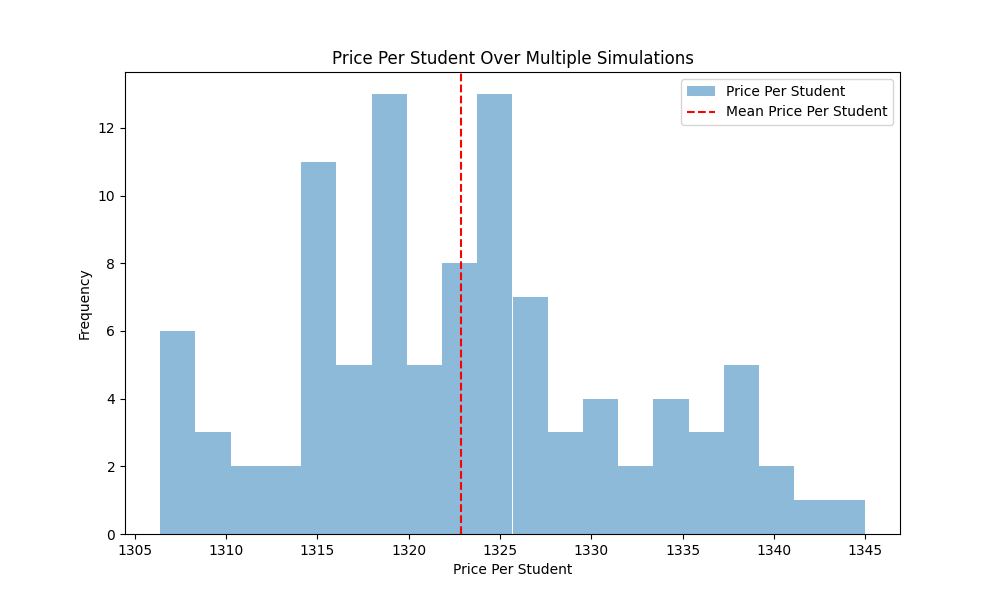
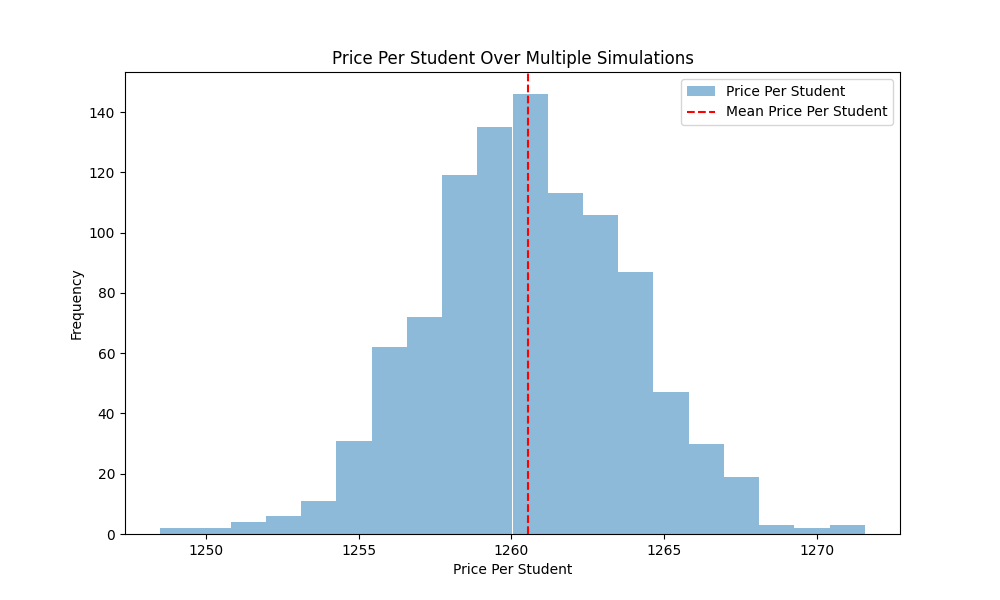
Add simulations and improve beta distribution

diff --git a/insurance/guarantee.py b/insurance/guarantee.py
@@ -3,8 +3,8 @@ import matplotlib.pyplot as plt
 import random
 
 # Define constants
-num_students = 1000
-num_simulations = 100
+num_students = 10000
+num_simulations = 1000
 passing_threshold = 0.7  # 70% of course material
 refund_rate = 0.5  # 0% of students who don't pass get a refund
 profit_margin = 0.15  # 15% profit margin
@@ -19,8 +19,8 @@ operating_cost_per_student = 1000  # base operating cost per student
 
 # Define the parameters of the beta distribution
 # Found this distribution via https://mathlets.org/mathlets/beta-distribution/
-alpha = 4.5  # shape parameter for the beta distribution
-beta = 1.5  # shape parameter for the beta distribution
+alpha = 3.5
+beta = 1.4
 
 # Simulate student behavior using a beta distribution
 student_performance = np.random.beta(alpha, beta, (num_simulations, num_students))
@@ -34,7 +34,7 @@ num_passing_students = np.sum(student_performance >= passing_threshold, axis=1)
 # Calculate the number of students who don't pass and get a refund
 num_refunded_students = np.sum(student_performance < passing_threshold, axis=1) * refund_rate
 
-# Calculate the total operating cost
+# Calculate the total operating cost, assuming worse-performing students probably require more resources
 total_operating_cost = np.sum(student_performance * operating_cost_per_student, axis=1)
 
 # Calculate the total revenue required to cover operating costs and profit margin
